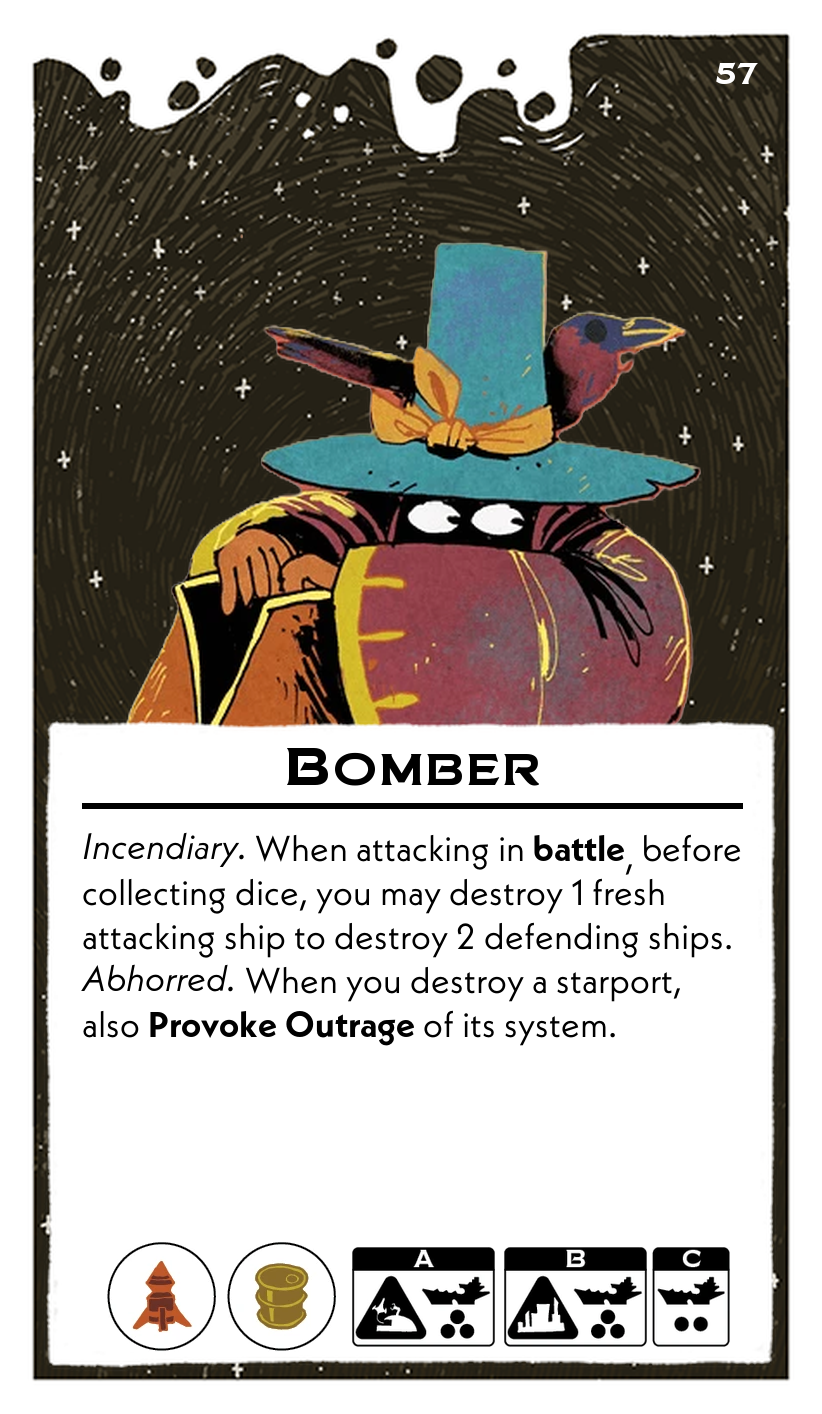
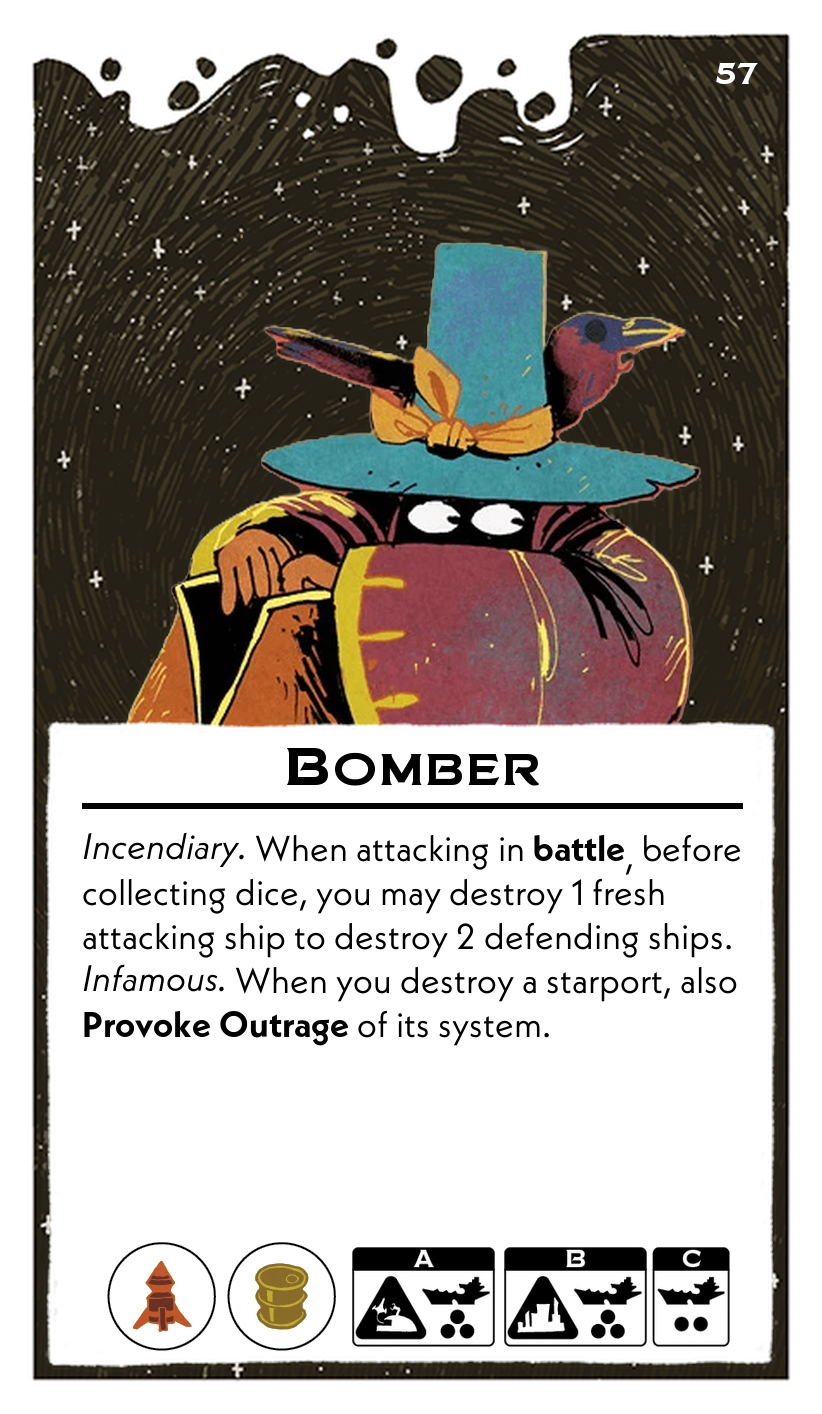
styling issues

Changed region(s): [[0.0912, 0.6846, 0.882, 0.7468]]

diff --git a/scripts/leadersFormatted.py b/scripts/leadersFormatted.py
@@ -871,7 +871,7 @@ leaders = [
         "name": "Bomber",
         "abilities": (
             "*Incendiary.* When attacking in **battle**, before collecting dice, you may destroy 1 fresh attacking ship to destroy 2 defending ships.\n"
-            "*Abhorred.* When you destroy a starport, also **Provoke** **Outrage** of its system."
+            "*Infamous.* When you destroy a starport, also **Provoke** **Outrage** of its system."
         ),
         "resources": ["Weapon", "Fuel"],
         "setup": {
